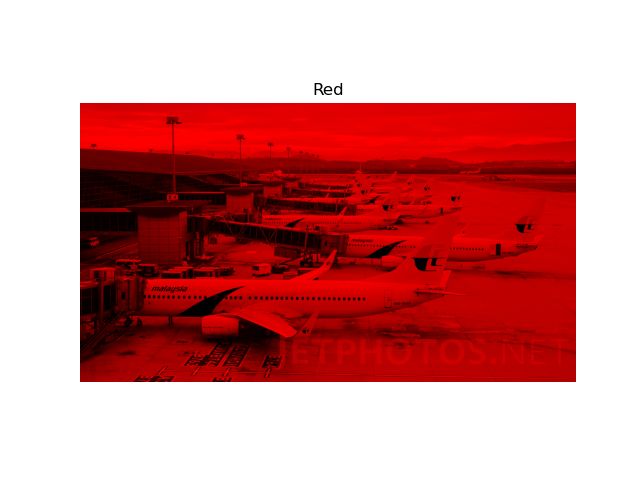
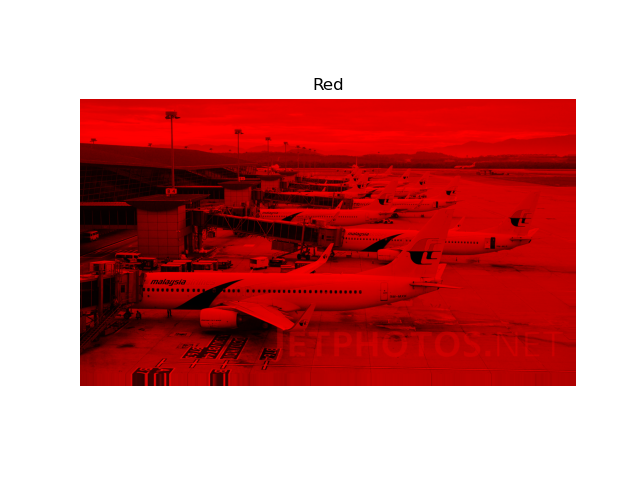
4.1 - Padding no Encoder

Changed region(s): [[0.125, 0.1562, 0.9062, 0.8125]]

diff --git a/PythonMult/projeto1.py b/PythonMult/projeto1.py
@@ -14,6 +14,14 @@ def splitRGB(img): #separar matrizes
 
 def encoder(img):
     R, G, B= splitRGB(img)
+    #Padding caso dimensão não seja multiplo de 32x32 (copia a ultima linha/coluna para preencher o espaço em falta)
+    #4.1
+    nl, nc= R.shape #n linhas e colunas
+    nl_pad= 32- nl%32
+    nc_pad= 32- nc%32
+    R= np.pad(R, ((0, nl_pad), (0, nc_pad)), mode= 'edge') #edge= copia a ultima linha/coluna
+    G= np.pad(G, ((0, nl_pad), (0, nc_pad)), mode= 'edge')
+    B= np.pad(B, ((0, nl_pad), (0, nc_pad)), mode= 'edge')
     return R, G, B
 
 #Decoder
@@ -76,9 +84,9 @@ def main():
     imgRec= decoder(R, G, B)
     showImg(imgRec, caption= "Imagem reconstruida: " + fname)
     plt.savefig("imagens/" + fname + "_rec.png")
-    x = input("Terminar programa? (s/n) ")
 
     #4 padding
+    plt.show()
 
 if __name__ == "__main__":
     main()
